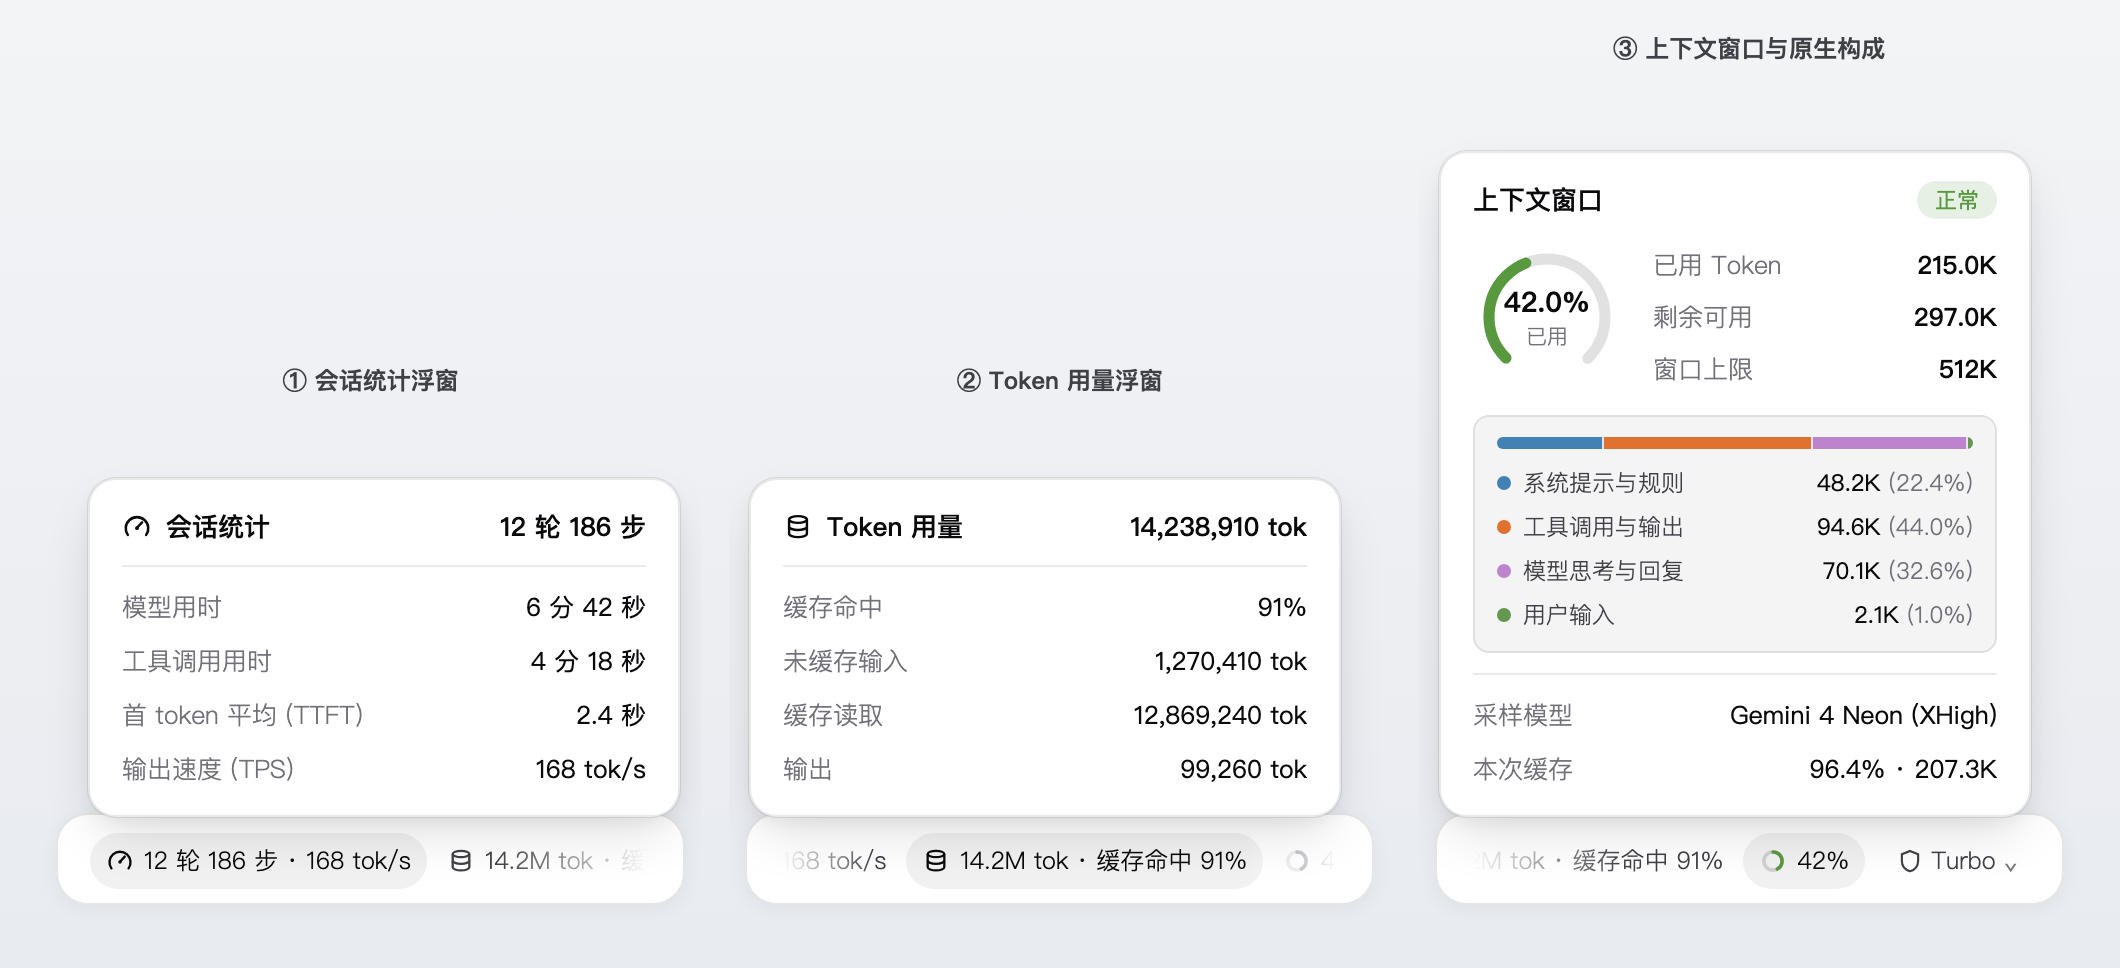
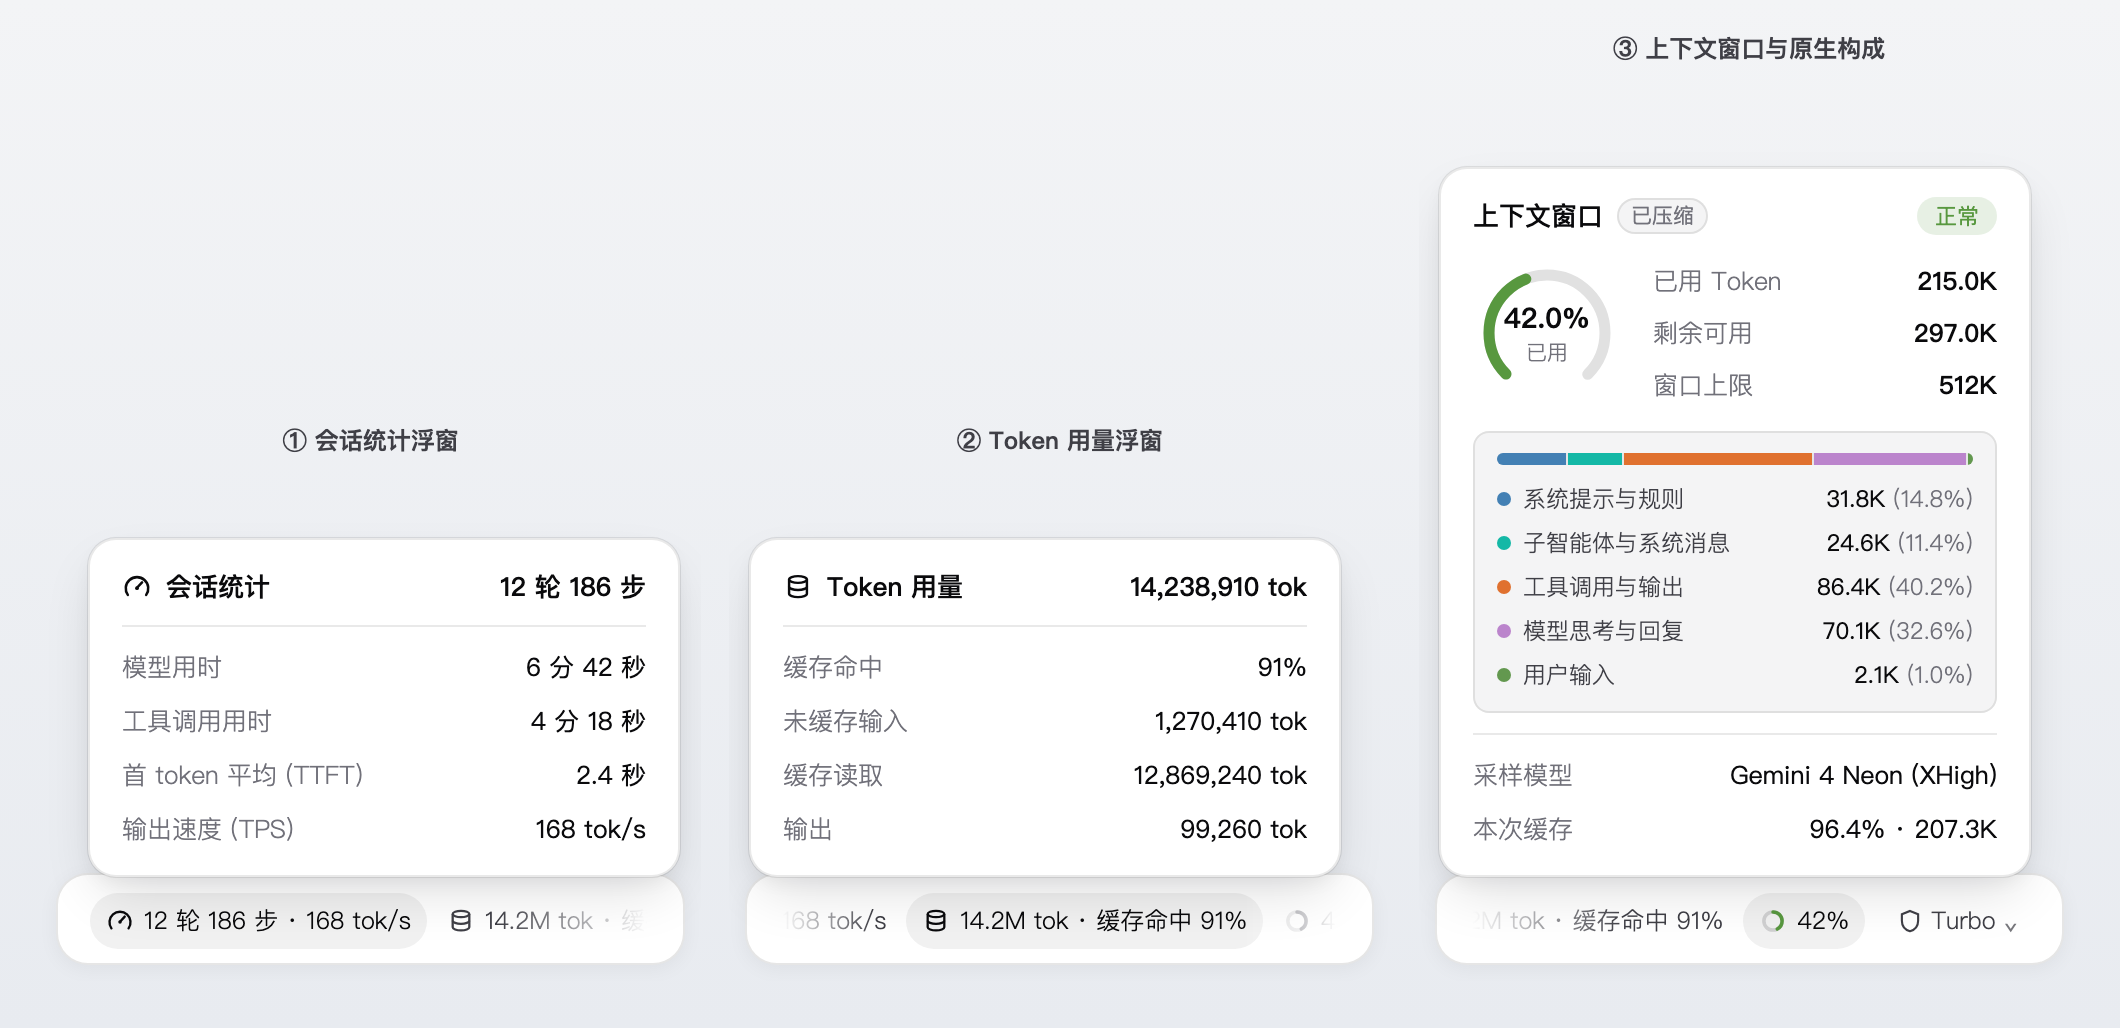
feat: split subagent/system messages into 5th context category & polish fallback/UI (v1.2.8)

diff --git a/README.md b/README.md
@@ -6,7 +6,7 @@
 
 **Zero-patch native composer HUD & click popovers for Antigravity — session stats, token usage, and native context breakdown.**
 
-[![Release](https://img.shields.io/badge/release-v1.2.7-d97706?style=flat-square)](https://github.com/XMT-CN/agy-ctx-ring/releases/latest)
+[![Release](https://img.shields.io/badge/release-v1.2.8-d97706?style=flat-square)](https://github.com/XMT-CN/agy-ctx-ring/releases/latest)
 [![License: MIT](https://img.shields.io/badge/license-MIT-blue?style=flat-square)](./LICENSE)
 [![Zero Dependencies](https://img.shields.io/badge/dependencies-zero-16a34a?style=flat-square)](#architecture--privacy)
 [![Platform](https://img.shields.io/badge/platform-macOS%20%7C%20Linux%20%7C%20Windows-52525b?style=flat-square)](#quick-start)
@@ -33,14 +33,14 @@ Clicking any of the three segments opens a compact floating popover right above 
 
 - **Session Stats (`会话统计`)**: turns, steps, model wall time, deduplicated tool call wall time, average TTFT, and decode speed (`tok/s`).
 - **Token Usage (`Token 用量`)**: cumulative total tokens, cache hit rate, uncached input, cache read, and output tokens.
-- **Context Window (`上下文窗口`)**: ring progress (`正常` / `占用偏高` / `接近上限`), used / remaining / window cap, plus the **exact 4-category breakdown** decoded from Antigravity's native `gen_metadata` (`系统提示与规则` · `工具调用与输出` · `模型思考与回复` · `用户输入`).
+- **Context Window (`上下文窗口`)**: ring progress (`正常` / `占用偏高` / `接近上限`), compaction indicator (`已压缩`), used / remaining / window cap, per-request cache hit (with model-switch cold-start indicator), plus the **5-category breakdown** decoded from Antigravity's native `gen_metadata` (`系统提示与规则` · `子智能体与系统消息` · `工具调用与输出` · `模型思考与回复` · `用户输入`).
 
 ---
 
 ## Features
 
 - **Zero-Patch Upgrade Survival**: Never modifies `Antigravity.app`, `app.asar`, or `~/.gemini/config/config.json`. Installed cleanly under `~/.gemini/config/plugins/agy-ctx-ring/` so official Antigravity updates never wipe your HUD.
-- **API Ground-Truth Prompt Usage & Native Breakdown**: Tracks server-returned prompt tokens (`uncached input + cache read`, aligned with Antigravity's actual compaction trigger) and scales the 4-category breakdown from Antigravity's native `gen_metadata` context tree (`ctx[3]`).
+- **API Ground-Truth Prompt Usage & Native Breakdown**: Tracks server-returned prompt tokens (`uncached input + cache read`, aligned with Antigravity's actual compaction trigger) and scales the 5-category breakdown from Antigravity's native `gen_metadata` context tree (`ctx[3]`), isolating subagent / plan handoff `SYSTEM_MESSAGE` payloads from static system rules (with full-transcript `transcript_full.jsonl` fallback).
 - **Zero-Latency Session Switching**:
   - Preloads the 40 most recent conversations into browser memory on attach;
   - Hooks Chromium `window.navigation` (`currententrychange`), `popstate`, and a `queueMicrotask` `MutationObserver` to re-render in the same paint frame (~0 ms);

diff --git a/README.zh-CN.md b/README.zh-CN.md
@@ -6,7 +6,7 @@
 
 **零侵入的 Antigravity 输入框底栏 HUD 与点击浮窗插件——实时展示会话统计、Token 用量与原生上下文 4 项精确构成。**
 
-[![Release](https://img.shields.io/badge/release-v1.2.7-d97706?style=flat-square)](https://github.com/XMT-CN/agy-ctx-ring/releases/latest)
+[![Release](https://img.shields.io/badge/release-v1.2.8-d97706?style=flat-square)](https://github.com/XMT-CN/agy-ctx-ring/releases/latest)
 [![License: MIT](https://img.shields.io/badge/license-MIT-blue?style=flat-square)](./LICENSE)
 [![Zero Dependencies](https://img.shields.io/badge/dependencies-zero-16a34a?style=flat-square)](#工作原理与隐私说明)
 [![Platform](https://img.shields.io/badge/platform-macOS%20%7C%20Linux%20%7C%20Windows-52525b?style=flat-square)](#一键安装)
@@ -33,14 +33,14 @@
 
 - **会话统计**：轮次、步数、模型耗时、工具调用壁钟耗时（区间合并去重）、平均首字延迟（TTFT）、输出速度（`tok/s`）。
 - **Token 用量**：总用量、全局缓存命中率、未缓存输入、缓存读取与输出明细。
-- **上下文窗口**：进度圆环与占用分级（`正常` / `占用偏高` / `接近上限`）、已用 / 剩余 / 窗口上限，以及直接解析自 Antigravity 原生 `gen_metadata` 的 **4 项构成明细**（系统提示与规则 · 工具调用与输出 · 模型思考与回复 · 用户输入）。
+- **上下文窗口**：进度圆环与占用分级（`正常` / `占用偏高` / `接近上限`）、压缩状态徽标（`已压缩`）、已用 / 剩余 / 窗口上限、本次缓存（含切模型冷启动提示），以及直接解析自 Antigravity 原生 `gen_metadata` 的 **5 项构成明细**（系统提示与规则 · 子智能体与系统消息 · 工具调用与输出 · 模型思考与回复 · 用户输入）。
 
 ---
 
 ## 核心特性
 
 - **不改 `app.asar`，版本升级不丢失**：绝不修改 `Antigravity.app` 或 `~/.gemini/config/config.json`，完全安装于标准插件目录 `~/.gemini/config/plugins/agy-ctx-ring/`，Antigravity 自动更新后无需重打补丁。
-- **API 实测上下文用量 + 原生精确构成**：已用上下文优先取服务端返回的真实输入（未缓存输入 + 缓存读取，严格对齐 Antigravity 真实触发自动压缩的红线），并结合原生 `gen_metadata` 的 `ctx[3]` 统计树等比计算 4 项构成明细。
+- **API 实测上下文用量 + 原生 5 项精确构成**：已用上下文优先取服务端返回的真实输入（未缓存输入 + 缓存读取，严格对齐 Antigravity 真实触发自动压缩的红线），结合原生 `gen_metadata` `ctx[3]` 统计树将**子智能体回传 / 计划交接 (`SYSTEM_MESSAGE`)** 从静态规则中独立拆出，避免误导（历史无 `ctx[3]` 会话兜底直读完整 `transcript_full.jsonl` 并按真实字符密度校准）。
 - **会话切换零延迟**：
   - 连接后后台自动预加载最近 40 个会话的指标到前端内存缓存；
   - 结合 Chromium `window.navigation`（`currententrychange`）、`popstate` 与 `queueMicrotask` 监听，切换会话**同帧秒出**；
